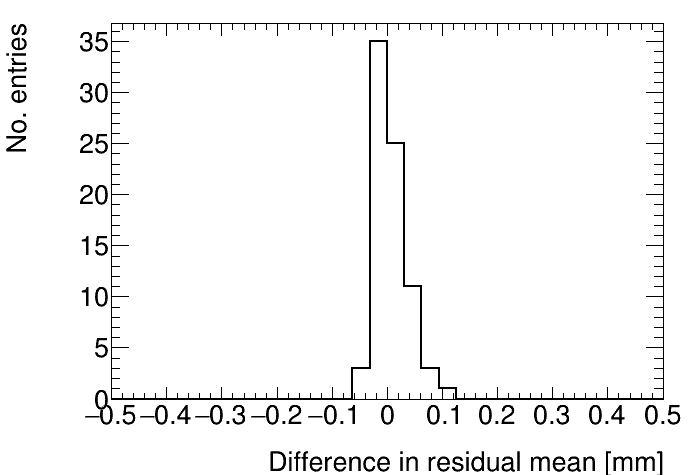
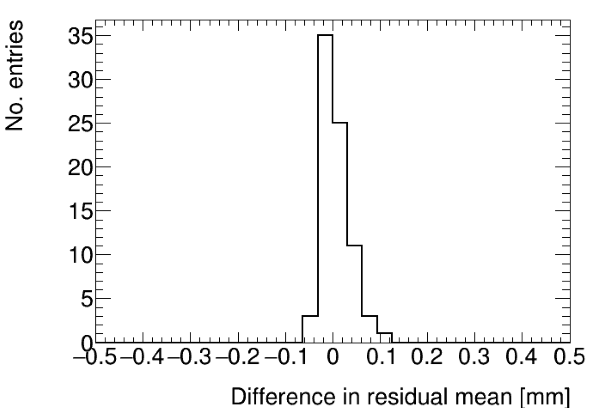
resized figure pngs

diff --git a/appendices/appendix-systematics.tex b/appendices/appendix-systematics.tex
@@ -85,7 +85,7 @@ where $y$ is the cluster mean, $y_{rel}$ is the relative position of the cluster
 
 \begin{figure}
     \centering
-    \includegraphics[width = \textwidth]{figures/figure_dnl_profiles_blue_QL2P08_3100V_2021-06-18_no_dnl_green_QL2P08_3100V_2021-06-18_2_50um_universal_DNL_layer4_fixed12.pdf}
+    \includegraphics[width = \textwidth]{figures/figure_dnl_profiles_blue_QL2P08_3100V_2021-06-18_no_dnl_green_QL2P08_3100V_2021-06-18_2_50um_universal_DNL_layer4_fixed12.png}
     \caption{Effect applying a \SI{50}{\micro\meter} DNL correction to the cluster means on the residual vs $y_{rel}$ distribution for tracks built from layers 1 and 2 and extrapolated to layer 4 for QL2.P.8.}
     \label{fig:dnl_corr_effect}
 \end{figure}
